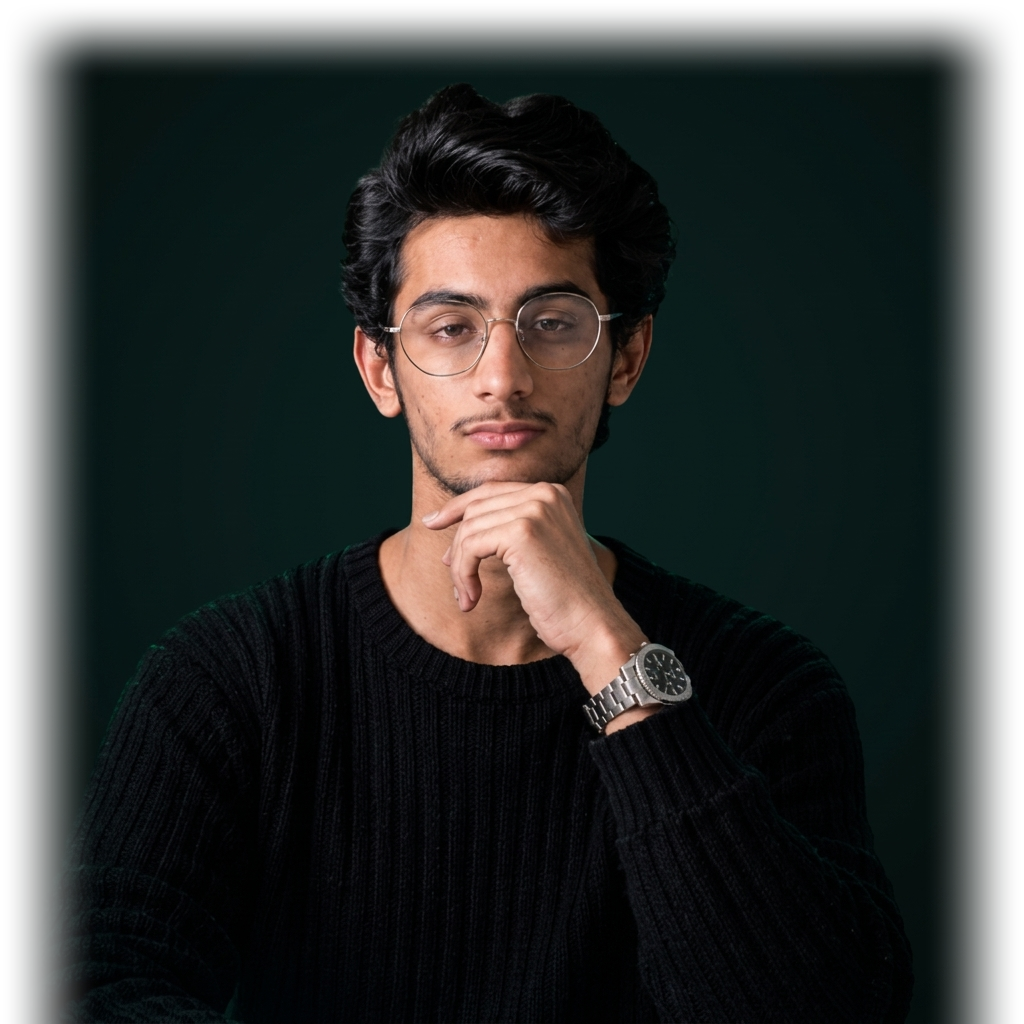
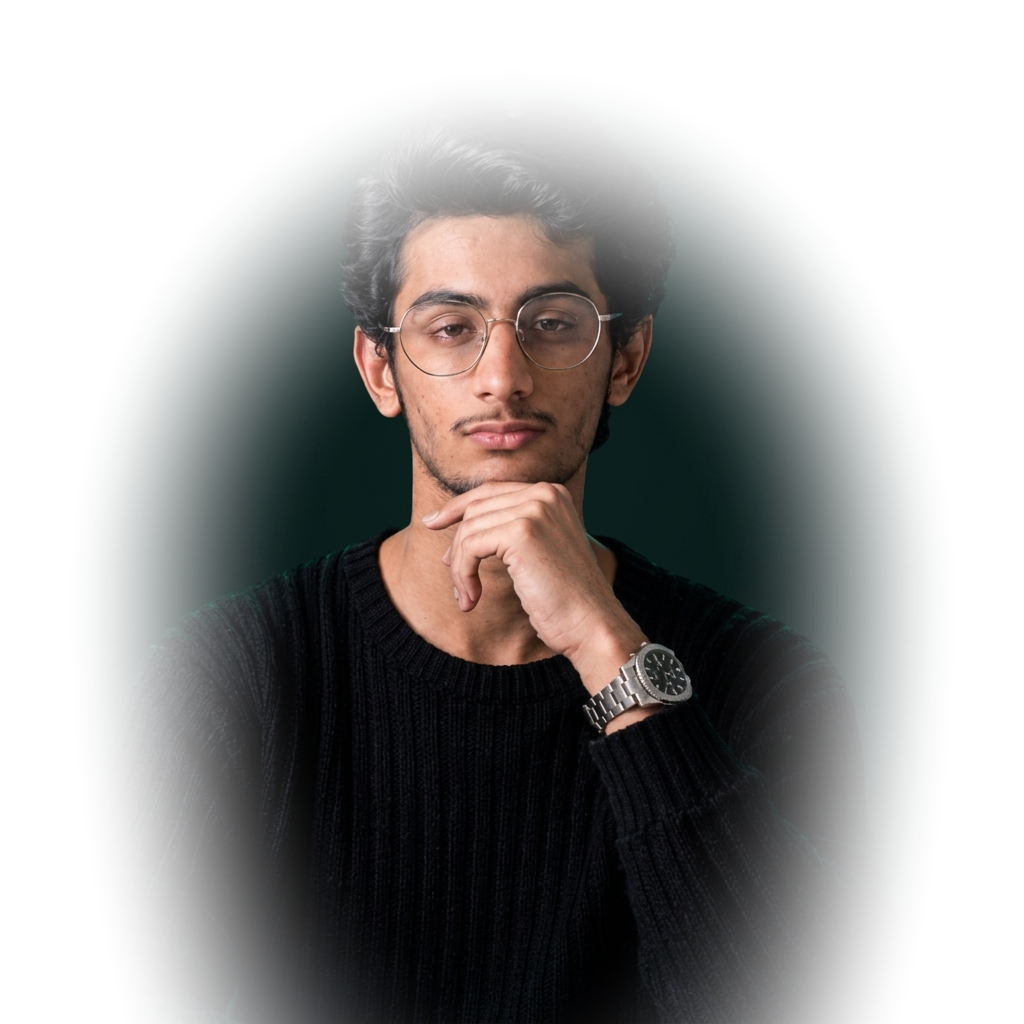
fix(portrait): remove harsh rectangular bounding box edges with soft feathered alpha falloff

diff --git a/src/components/sections/01-hero/PortraitXRayCanvas.tsx b/src/components/sections/01-hero/PortraitXRayCanvas.tsx
@@ -126,6 +126,12 @@ export function PortraitXRayCanvas({
       }}
       onClick={onToggleLock}
       className="hero-portrait hero-portrait--reveal scene-copy hero-reveal-ready hero-reveal-active pointer-events-auto cursor-pointer absolute bottom-0 left-1/2 z-10 flex h-[88vh] w-auto -translate-x-1/2 items-end justify-center select-none flex-shrink-0"
+      style={{
+        WebkitMaskImage:
+          'radial-gradient(ellipse 88% 85% at 50% 55%, #000 50%, rgba(0,0,0,0.85) 70%, rgba(0,0,0,0.3) 88%, transparent 100%)',
+        maskImage:
+          'radial-gradient(ellipse 88% 85% at 50% 55%, #000 50%, rgba(0,0,0,0.85) 70%, rgba(0,0,0,0.3) 88%, transparent 100%)',
+      }}
     >
       <div className="relative flex h-full w-auto items-end justify-center">
         {/* Faint Ambient Green Beam (Background Glow) directly behind the portrait layer */}
